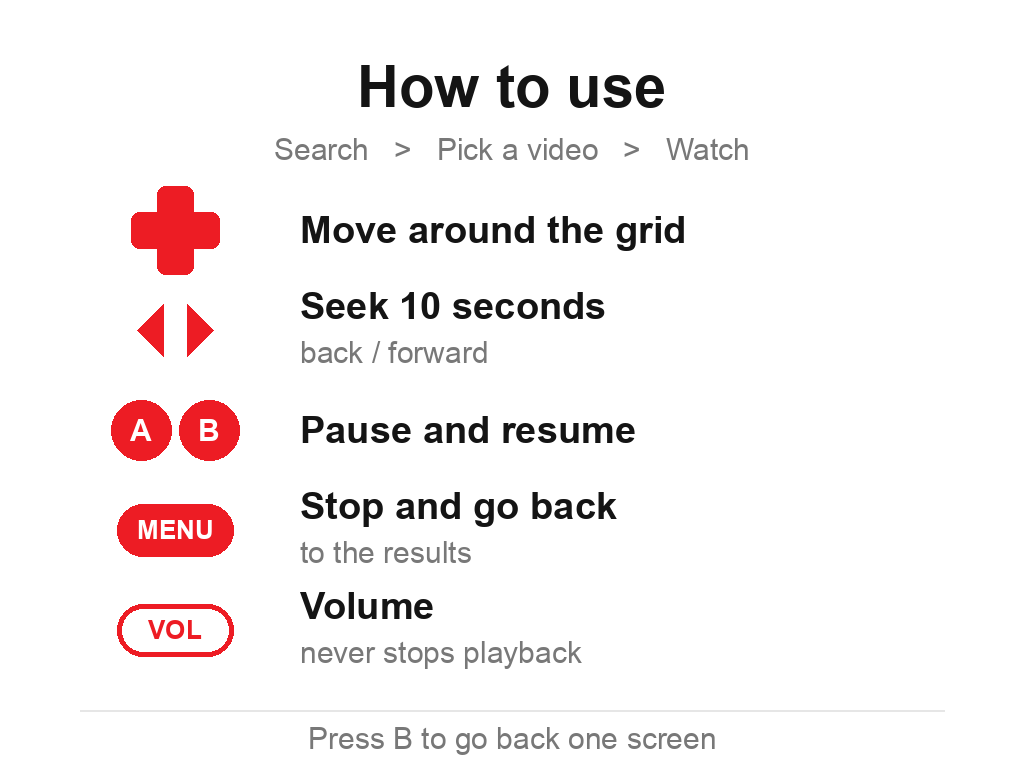
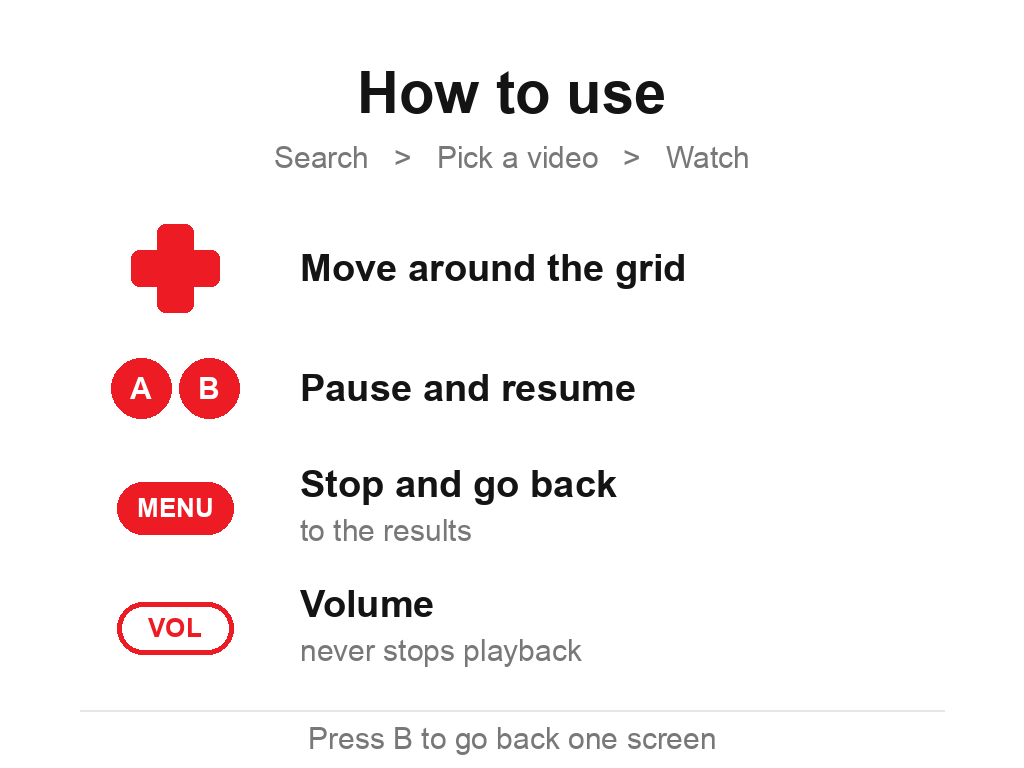
Drop forward scrub (vendor player can't seek past its ~5s live buffer; confirmed via instrumented seekto/Range logs)
Keep pause + timestamp bar (work). Remove d-pad L/R seek from ytctl, revert
proxy Range debug logging, drop the Seek row from the help diagram.

diff --git a/ytctl/ytctl.go b/ytctl/ytctl.go
@@ -264,9 +264,8 @@ func main() {
 		}
 	}
 
-	// input reader: EV_KEY presses + D-pad (EV_ABS hat-X, or key form) as
-	// synthetic codes 1000 (LEFT) / 1001 (RIGHT).
-	const codeLeft, codeRight = 1000, 1001
+	// input reader: EV_KEY presses only (forward scrub was removed — the vendor
+	// player can't seek beyond its ~5s live-stream buffer, so scrub was a lie).
 	keys := make(chan uint16, 16)
 	go func() {
 		buf := make([]byte, 24)
@@ -282,29 +281,10 @@ func main() {
 			etype := binary.LittleEndian.Uint16(buf[16:18])
 			code := binary.LittleEndian.Uint16(buf[18:20])
 			value := int32(binary.LittleEndian.Uint32(buf[20:24]))
-			switch etype {
-			case 1: // EV_KEY
-				if value != 1 {
-					continue
-				}
-				switch code {
-				case 105: // KEY_LEFT
-					keys <- codeLeft
-				case 106: // KEY_RIGHT
-					keys <- codeRight
+			if etype == 1 && value == 1 { // key press only
+				select {
+				case keys <- code:
 				default:
-					select {
-					case keys <- code:
-					default:
-					}
-				}
-			case 3: // EV_ABS — d-pad hat on this X360-clone (ABS_HAT0X = 16)
-				if code == 16 {
-					if value < 0 {
-						keys <- codeLeft
-					} else if value > 0 {
-						keys <- codeRight
-					}
 				}
 			}
 		}
@@ -339,37 +319,12 @@ func main() {
 		return false
 	}
 
-	// position tracking: pos advances with wall-clock while playing; seeks jump it
+	// position tracking: pos advances with wall-clock while playing (for the
+	// pause timestamp/bar).
 	start := time.Now()
 	last := time.Now()
 	pos := 0.0
 	playing := true
-
-	logfile, _ := os.OpenFile(logPath, os.O_APPEND|os.O_WRONLY, 0644)
-	logf := func(format string, a ...any) {
-		if logfile != nil {
-			fmt.Fprintf(logfile, "[ytctl] "+format+"\n", a...)
-		}
-	}
-
-	seekTo := func(p float64) {
-		if p < 0 {
-			p = 0
-		}
-		if duration > 0 && p > duration-1 {
-			p = duration - 1
-		}
-		pos = p
-		// the player's command token is "seekto" (no space) — "seek to" no-matches
-		logf("seek pos=%.1f dur=%.1f -> seekto:%d", p, duration, int(p))
-		send(fmt.Sprintf("seekto:%d", int(p)))
-		if !playing {
-			send("pause") // seek may resume; keep it held (pause is idempotent)
-			if screen != nil {
-				screen.drawBar(pos, duration)
-			}
-		}
-	}
 
 	tick := time.NewTicker(250 * time.Millisecond)
 	for {
@@ -401,10 +356,6 @@ func main() {
 						screen.clearBar()
 					}
 				}
-			case codeLeft:
-				seekTo(pos - 10)
-			case codeRight:
-				seekTo(pos + 10)
 			}
 		case <-tick.C:
 			if !alive(pid) {

diff --git a/proxy/ytproxy.go b/proxy/ytproxy.go
@@ -71,9 +71,7 @@ func handler(w http.ResponseWriter, r *http.Request) {
 		http.Error(w, err.Error(), http.StatusBadGateway)
 		return
 	}
-	rng := r.Header.Get("Range")
-	log.Printf("proxy %s Range=%q", r.Method, rng)
-	if rng != "" {
+	if rng := r.Header.Get("Range"); rng != "" {
 		req.Header.Set("Range", rng)
 	}
 	req.Header.Set("User-Agent", "Mozilla/5.0")